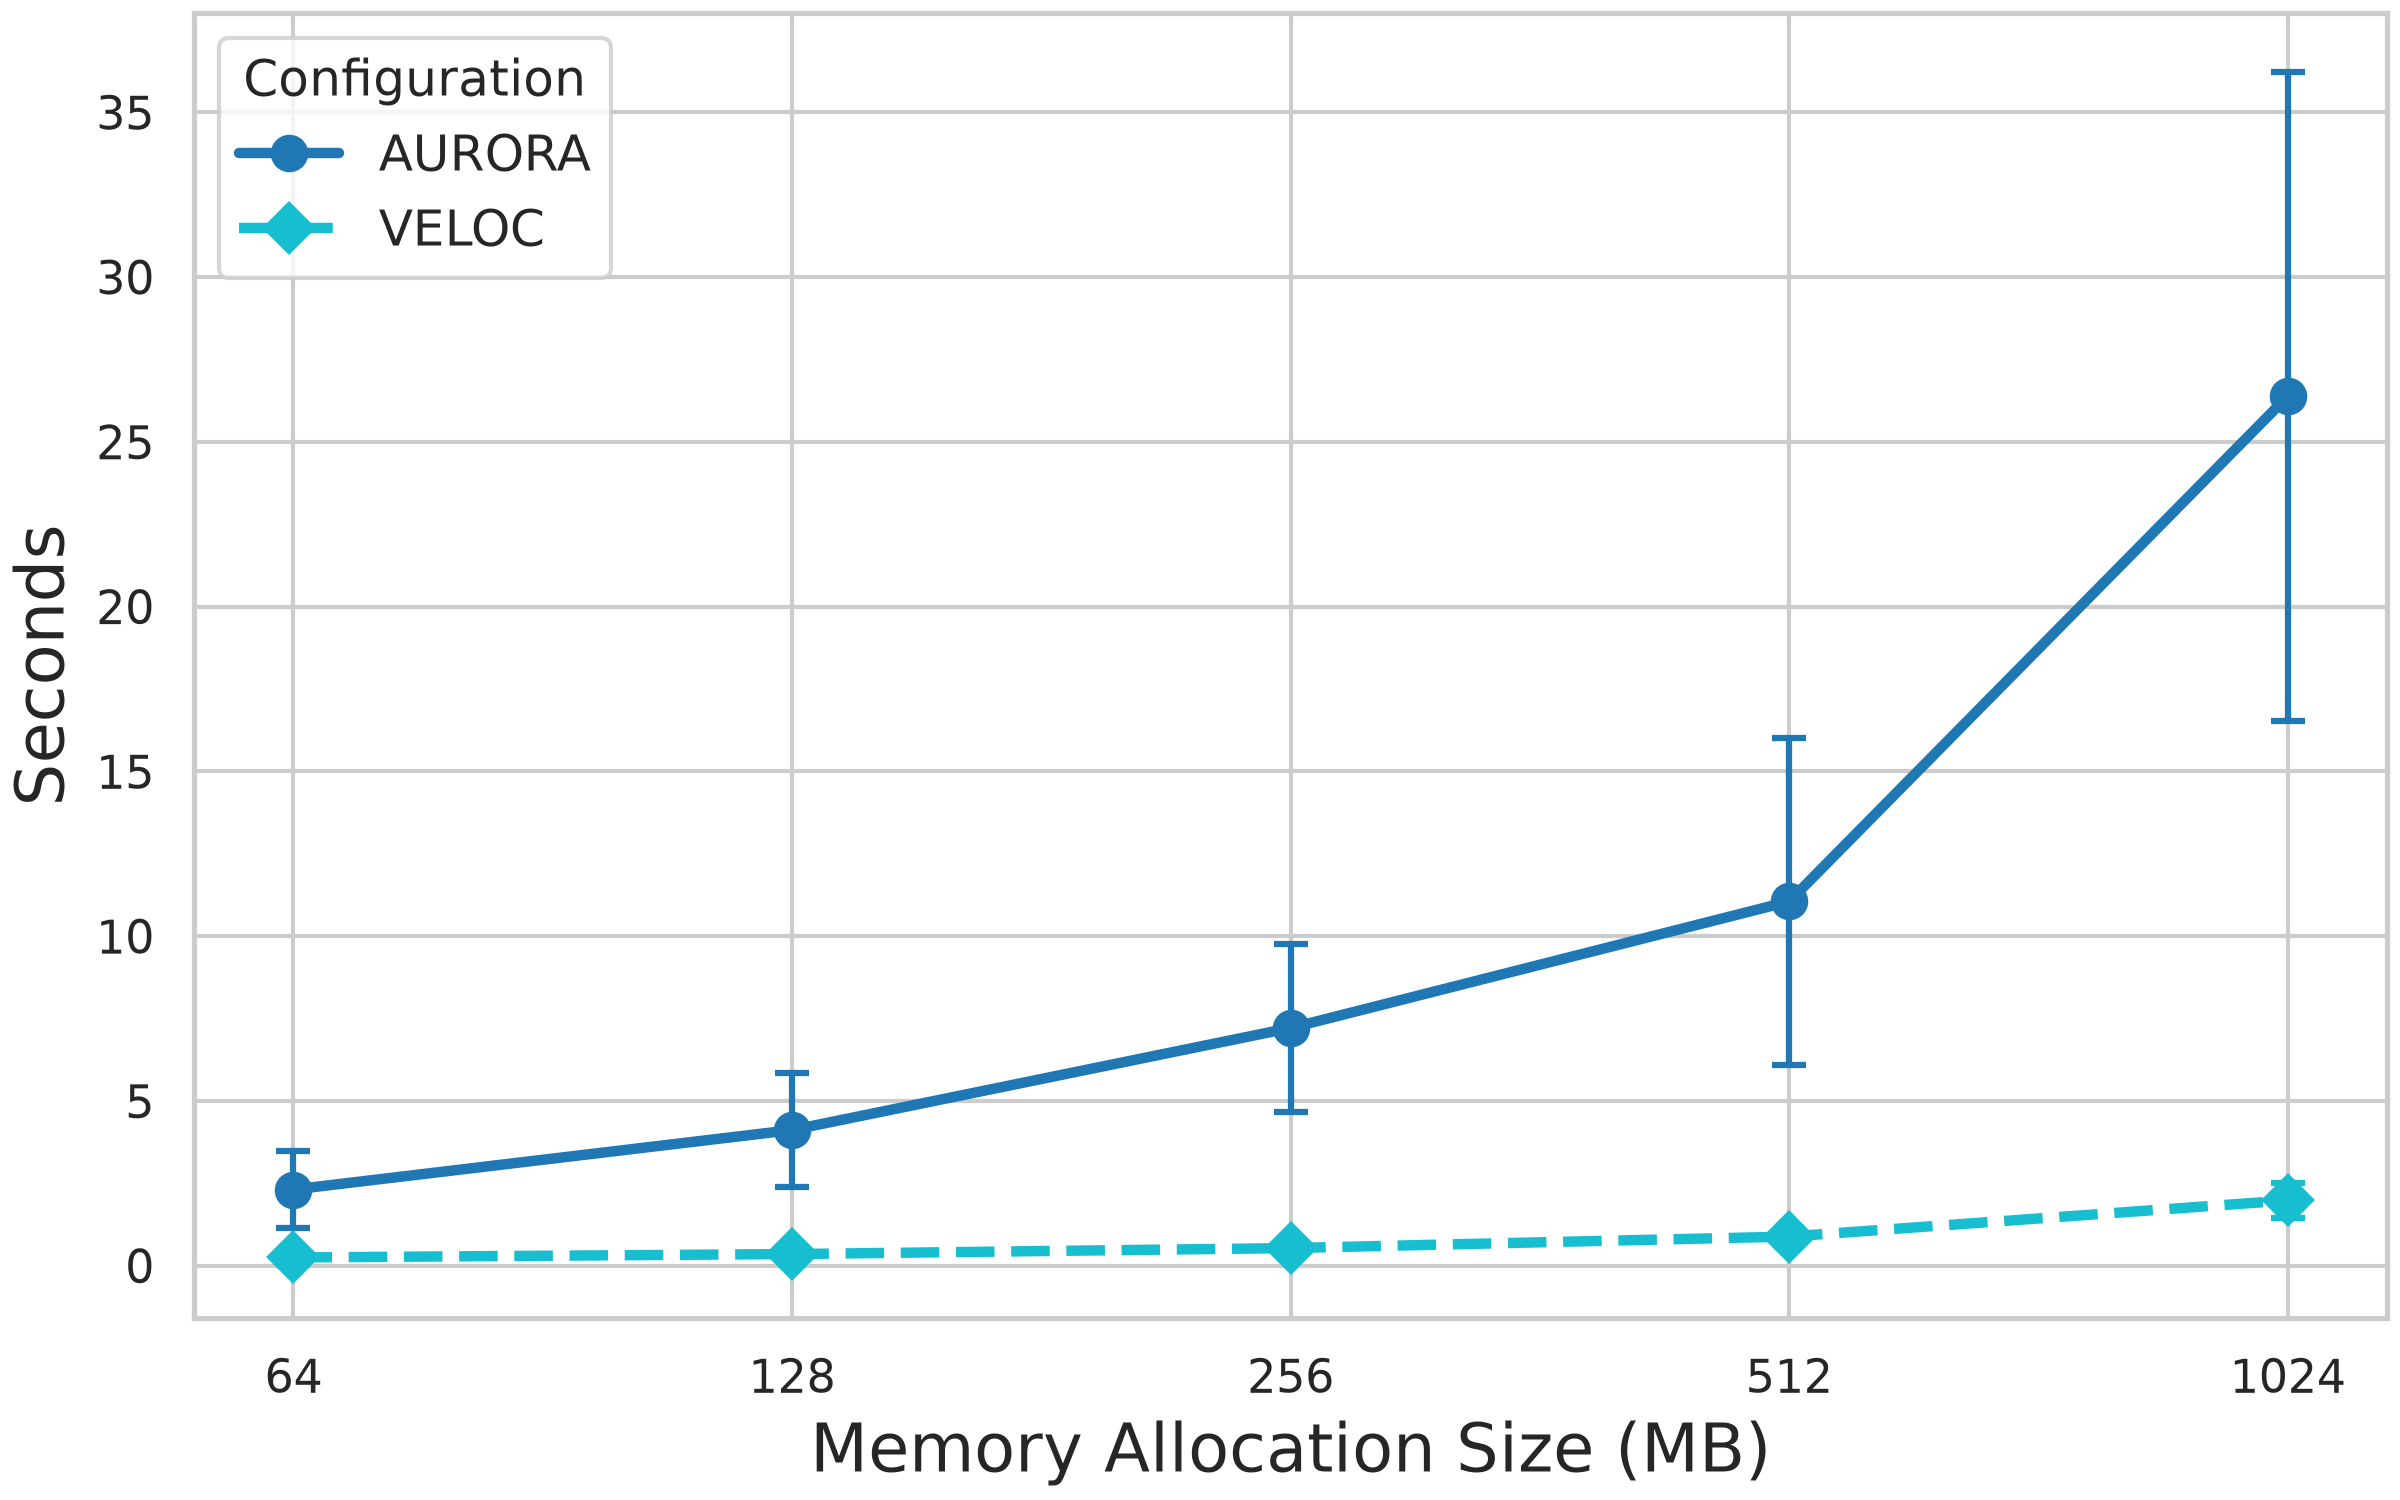
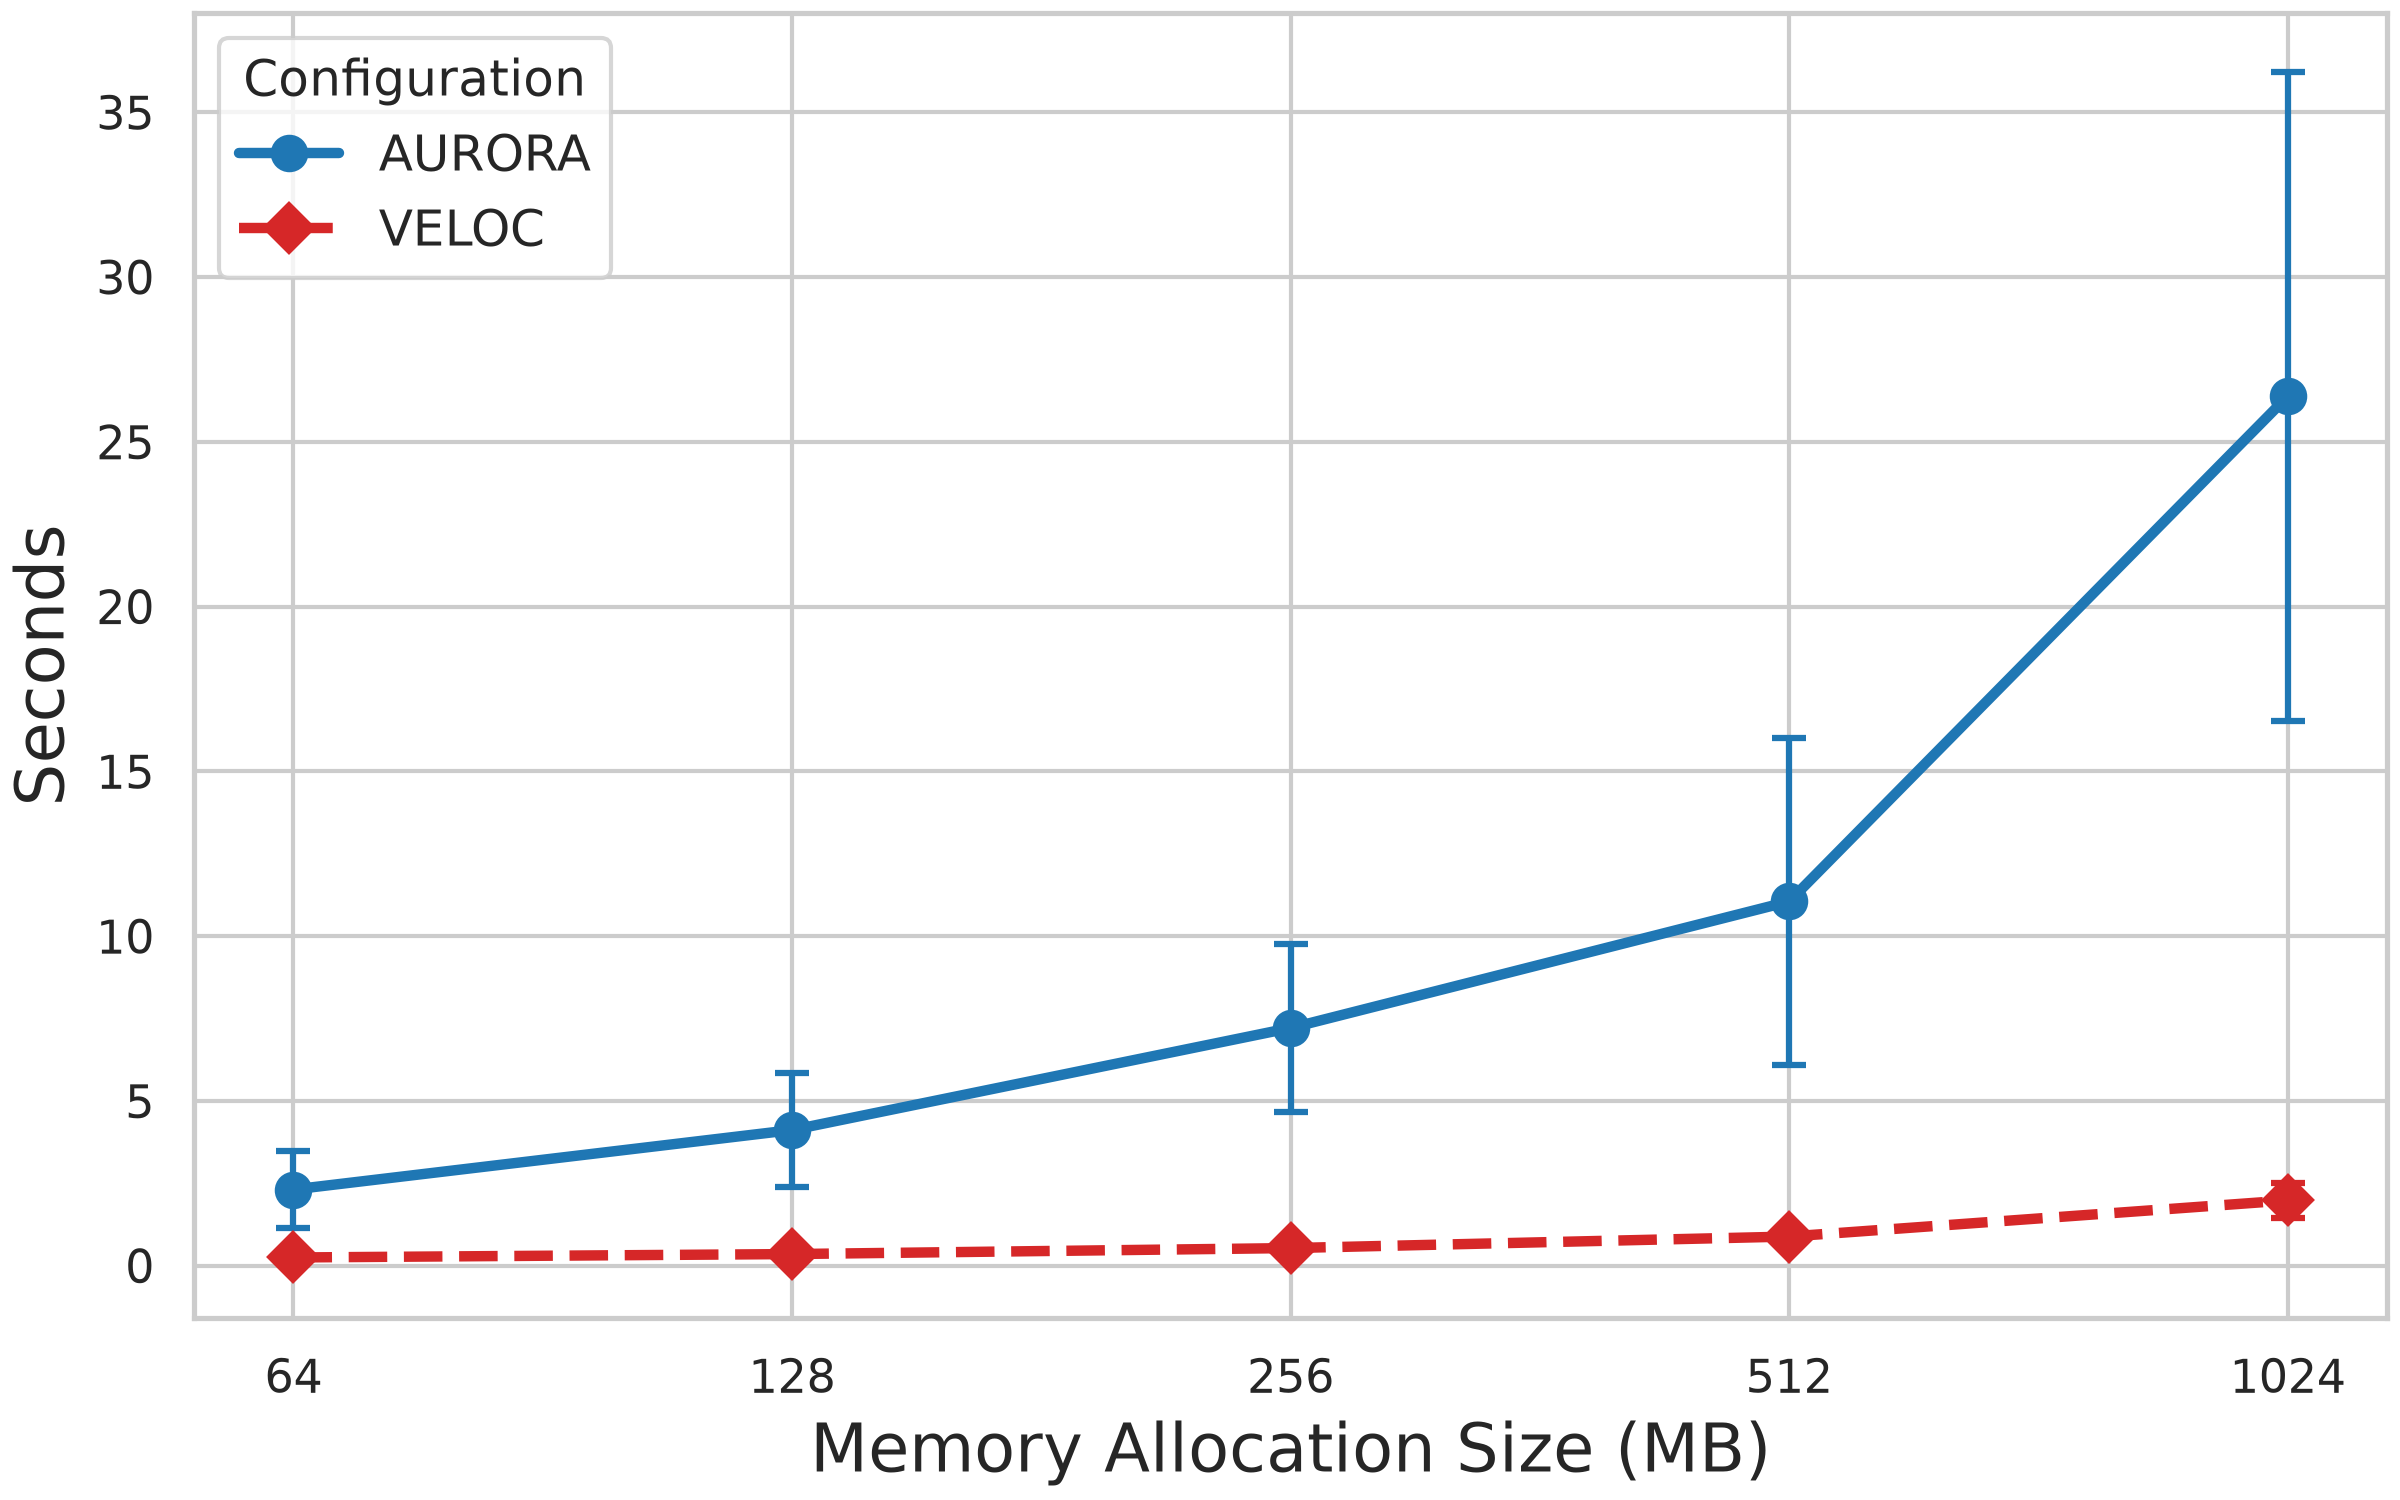
remove plotting changes

Changed region(s): [[0.0938, 0.7973, 0.625, 0.8587], [0.6562, 0.7667, 0.9688, 0.8587], [0.0938, 0.1227, 0.125, 0.184]]

diff --git a/scripts/plotting/plot_heatdis_restore.py b/scripts/plotting/plot_heatdis_restore.py
@@ -132,8 +132,7 @@ def render_plot_variant(data_df, core_mode_label):
         data_df['Series_ID'] = data_df['Framework']
 
     # Custom styling
-    # CUSTOM_PALETTE = ["#1f77b4", "#2ca02c", "#d62728",  "#9467bd", "#17becf"]
-    CUSTOM_PALETTE = ["#1f77b4", "#17becf", "#d62728",  "#d13262"]
+    CUSTOM_PALETTE = ["#1f77b4", "#d62728", "#2ca02c", "#9467bd", "#17becf"]
     CUSTOM_MARKERS = ["o", "D", "^", "s", "*", "P"]
     CUSTOM_DASHES = ["-", "--", ":", "-.", (5, 2, 1, 2)]
 
